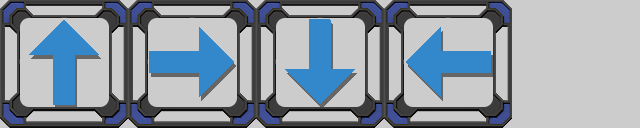
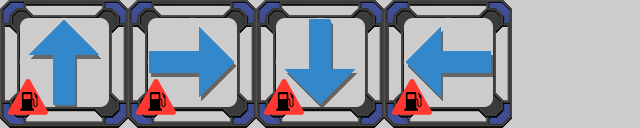
barrel sticker temp fix; more graphics

diff --git a/changelog.md b/changelog.md
@@ -1,6 +1,7 @@
 0.1.21
 
 * Path graphics update.
+* Default to empt barrel icon for stickers. Can't handle tints yet.
 
 0.1.20
 
